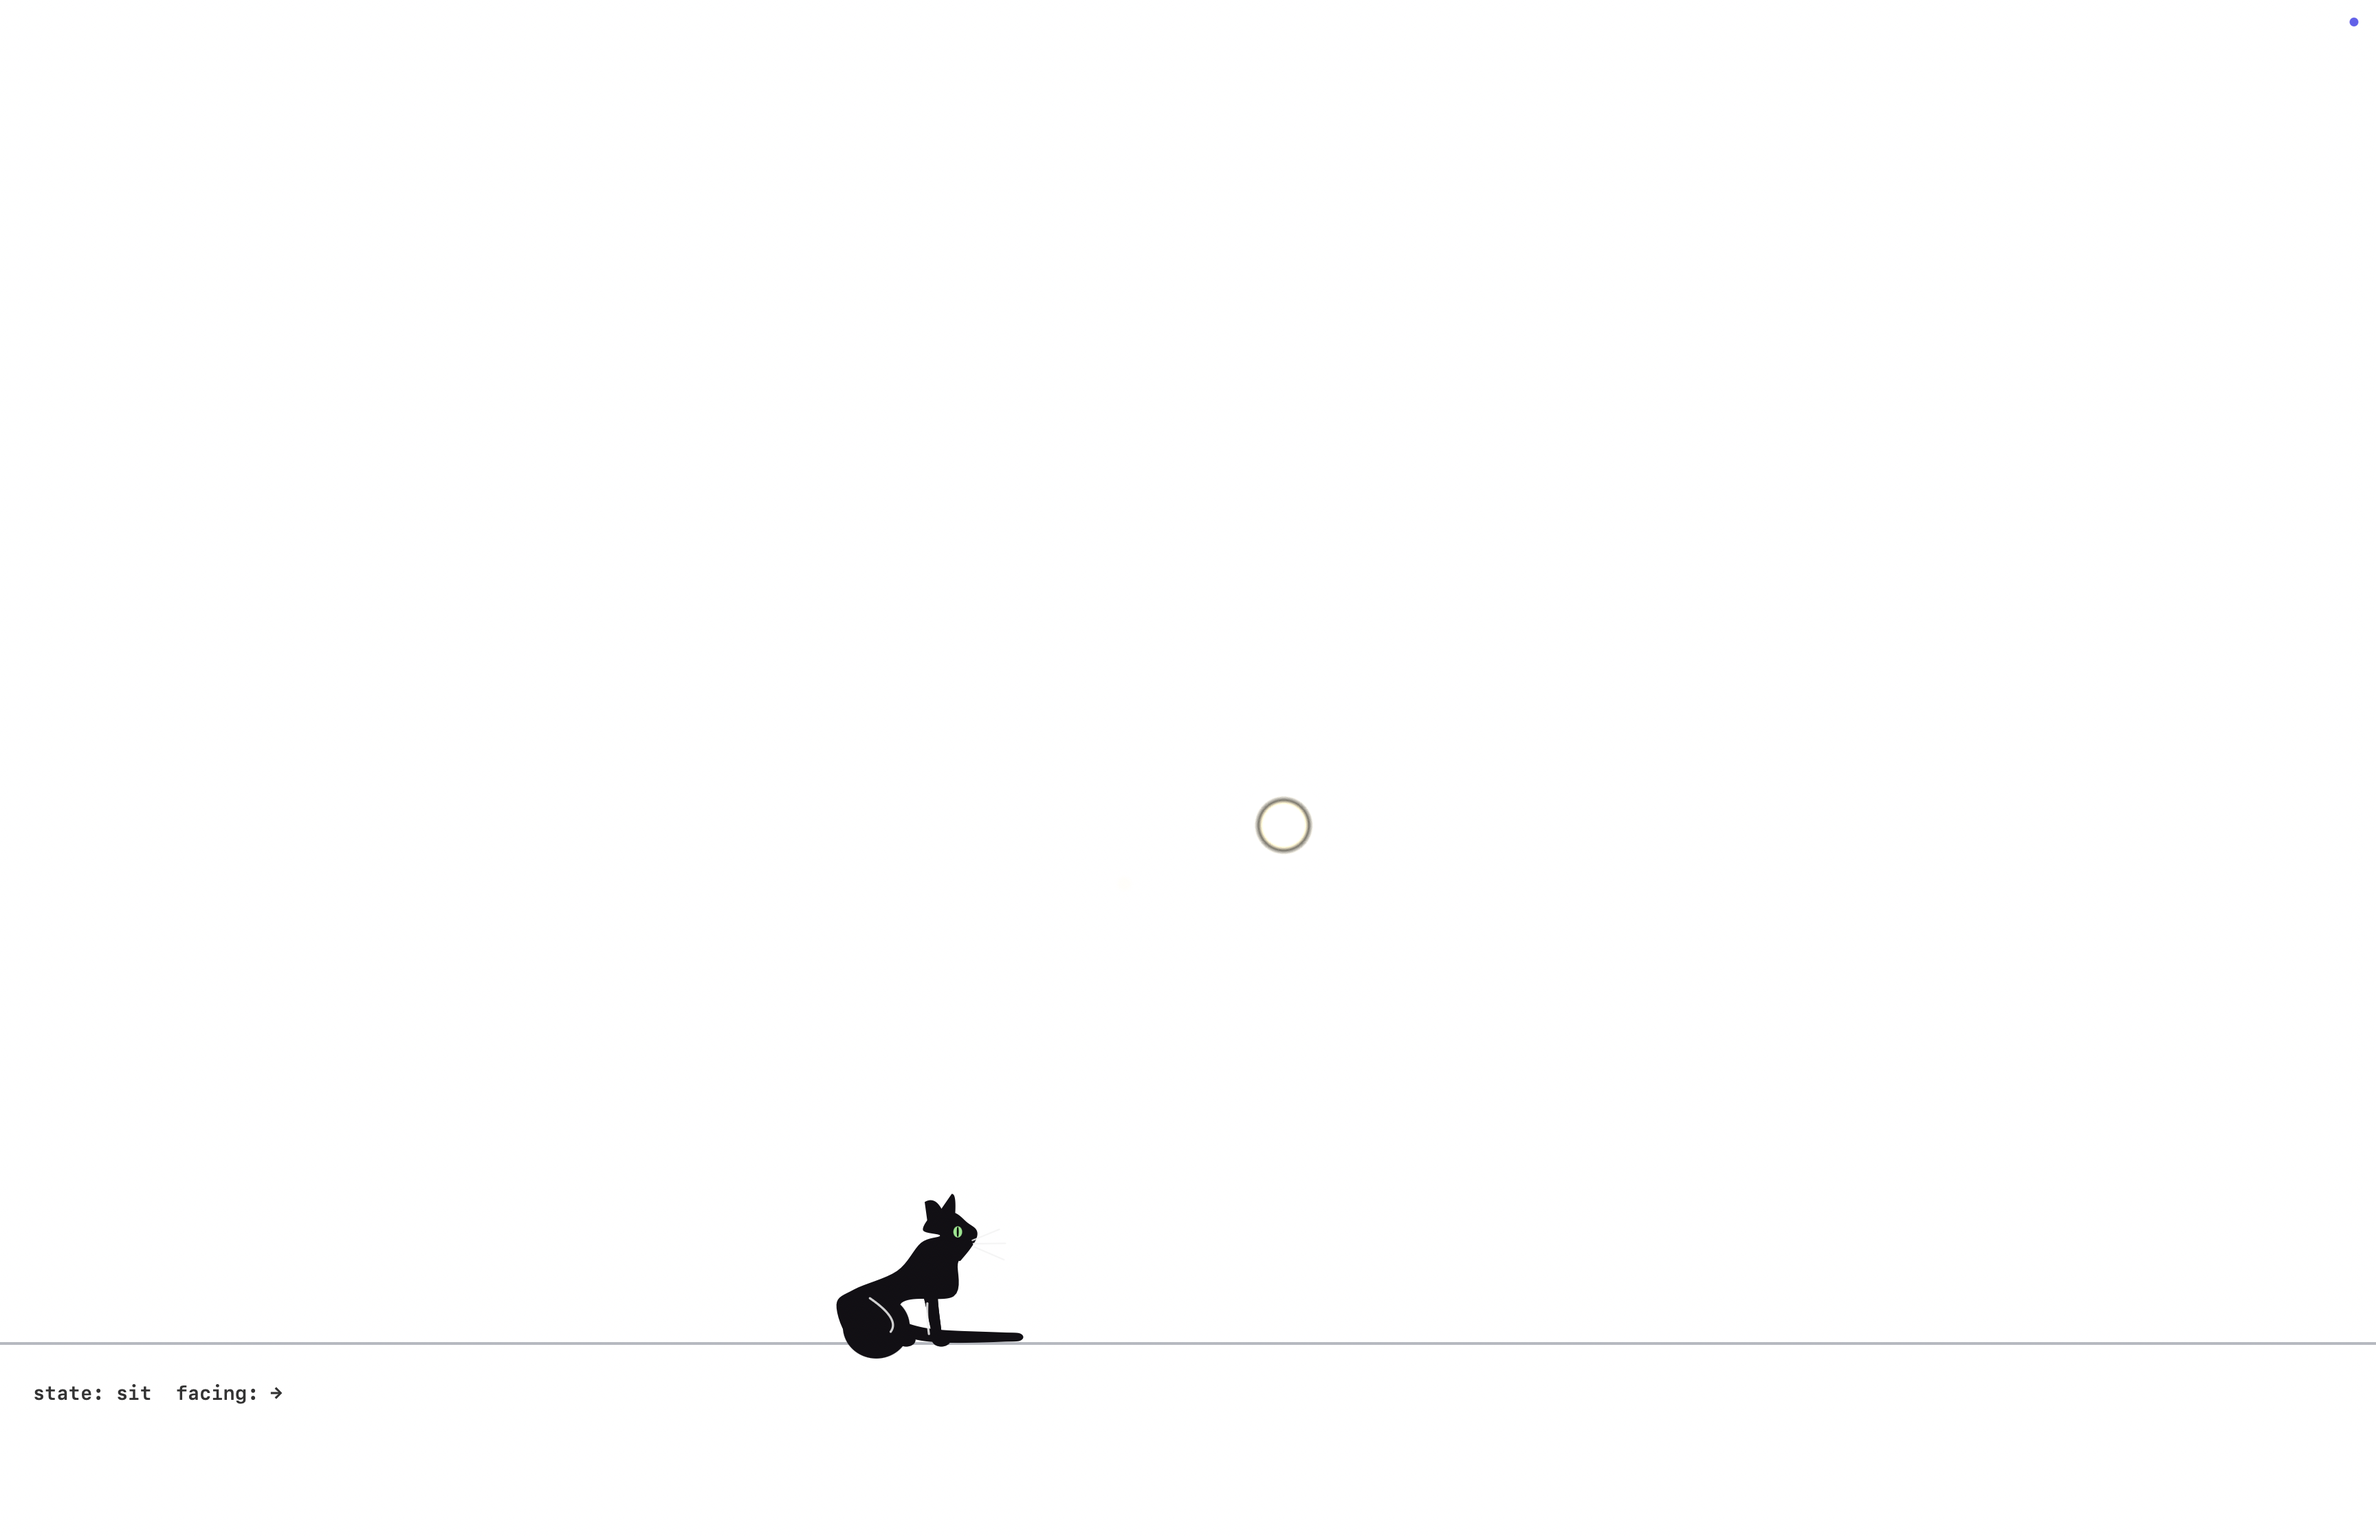
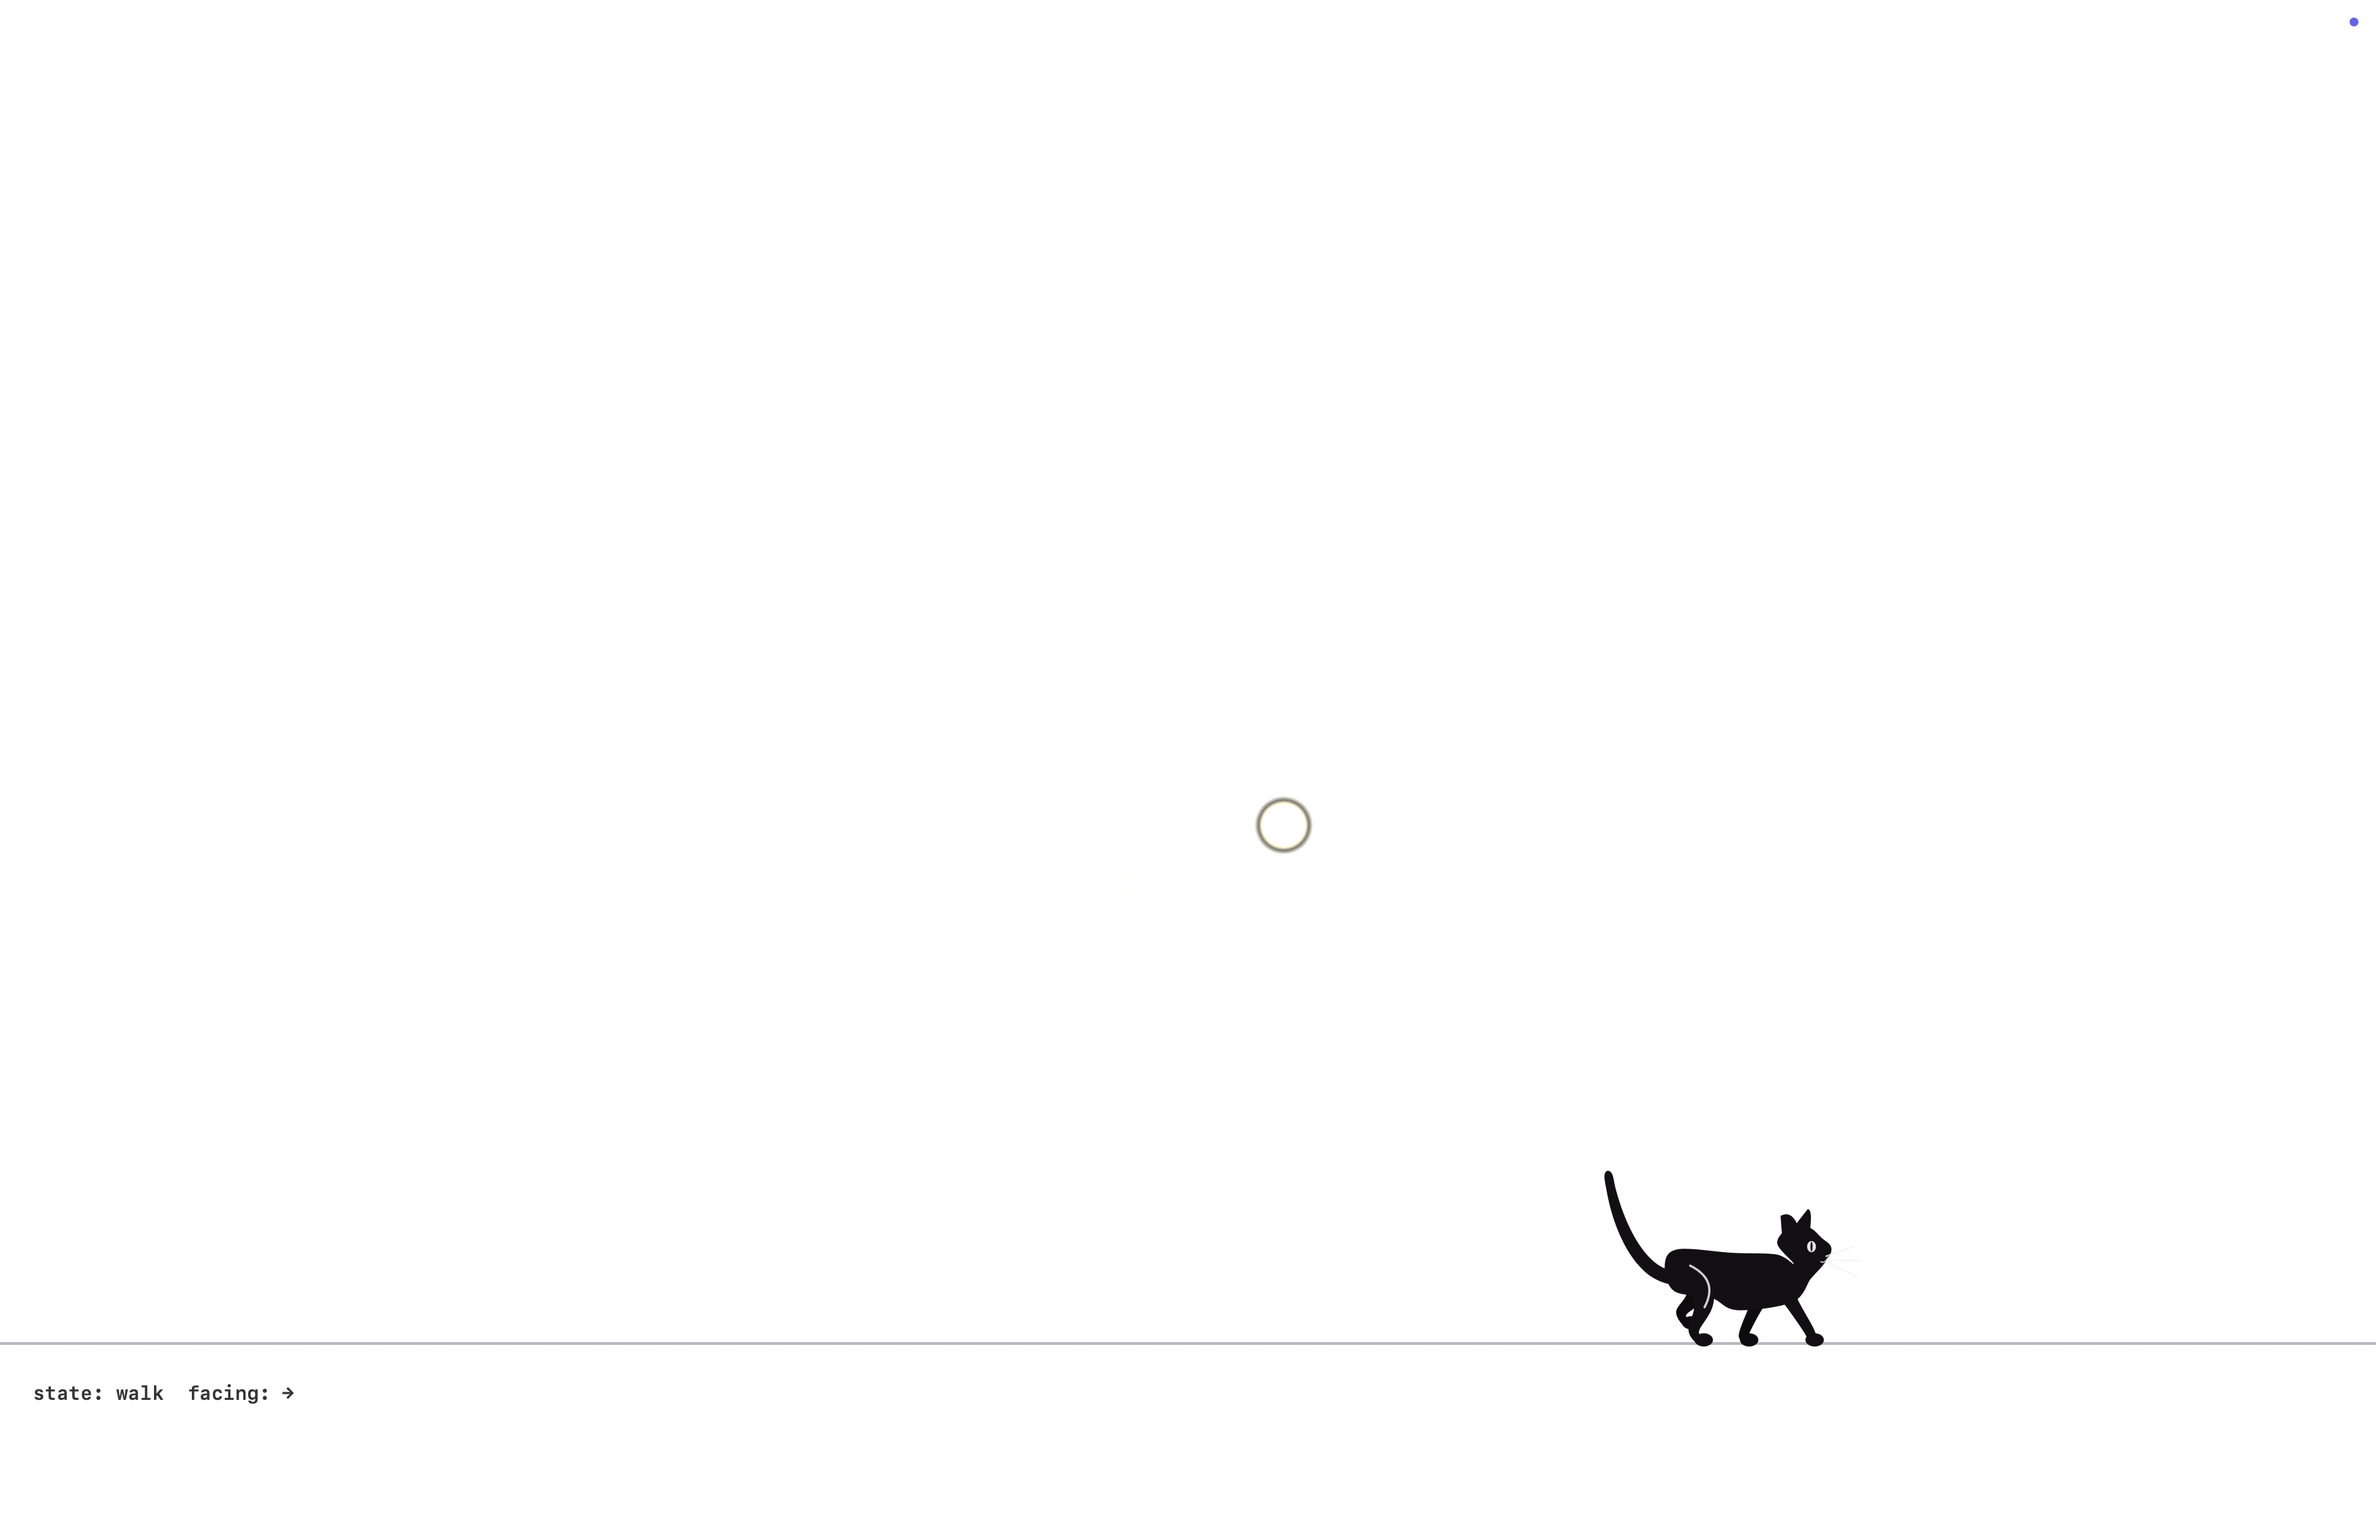
KiddyCat silhouette: reference face — light almond eye with dark slit, mouth line
The green eye was the last visible identity difference vs the reference
sheet: now a background-colored almond with a body-colored slit (white on
charcoal over light backgrounds, dark on silver over dark), plus the small
white mouth curve under the nose that the reference faces carry.

diff --git a/Sources/kiddyproof/KiddyCat.swift b/Sources/kiddyproof/KiddyCat.swift
@@ -723,16 +723,25 @@ final class KiddyCat {
             ctx.strokePath()
         }
 
-        // --- Eye (with blink): almond with a slit pupil.
+        // --- Eye (with blink): light almond with a dark slit, per the reference.
         let eyeOpen = 1 - blinkPhase
         if eyeOpen > 0.08 {
             let e = P(hcx + R * 0.42, hcy + R * 0.22 + hp * 0.03)
             let ew = s * 0.055, eh = s * 0.070 * eyeOpen
-            ctx.setFillColor(NSColor(srgbRed: 0.55, green: 0.95, blue: 0.55, alpha: 0.95).cgColor)
+            ctx.setFillColor(accent.withAlphaComponent(0.95).cgColor)
             ctx.fillEllipse(in: CGRect(x: e.x - ew, y: e.y - eh, width: ew * 2, height: eh * 2))
-            ctx.setFillColor(NSColor.black.cgColor)
-            ctx.fillEllipse(in: CGRect(x: e.x - ew * 0.22, y: e.y - eh * 0.9, width: ew * 0.44, height: eh * 1.8))
+            ctx.setFillColor(bodyColor.cgColor)
+            ctx.fillEllipse(in: CGRect(x: e.x - ew * 0.24, y: e.y - eh * 0.85, width: ew * 0.48, height: eh * 1.7))
         }
+        // Mouth: a small accent curve under the nose (reference face detail).
+        ctx.setStrokeColor(accent.withAlphaComponent(0.8).cgColor)
+        ctx.setLineWidth(s * 0.016)
+        let m0 = H(R * 0.96, -R * 0.34)
+        let m1 = H(R * 0.66, -R * 0.44)
+        ctx.beginPath()
+        ctx.move(to: P(m0.0, m0.1))
+        ctx.addQuadCurve(to: P(m1.0, m1.1), control: P((m0.0 + m1.0) / 2, m1.1 - 0.03))
+        ctx.strokePath()
         ctx.setAlpha(1)
     }
 
